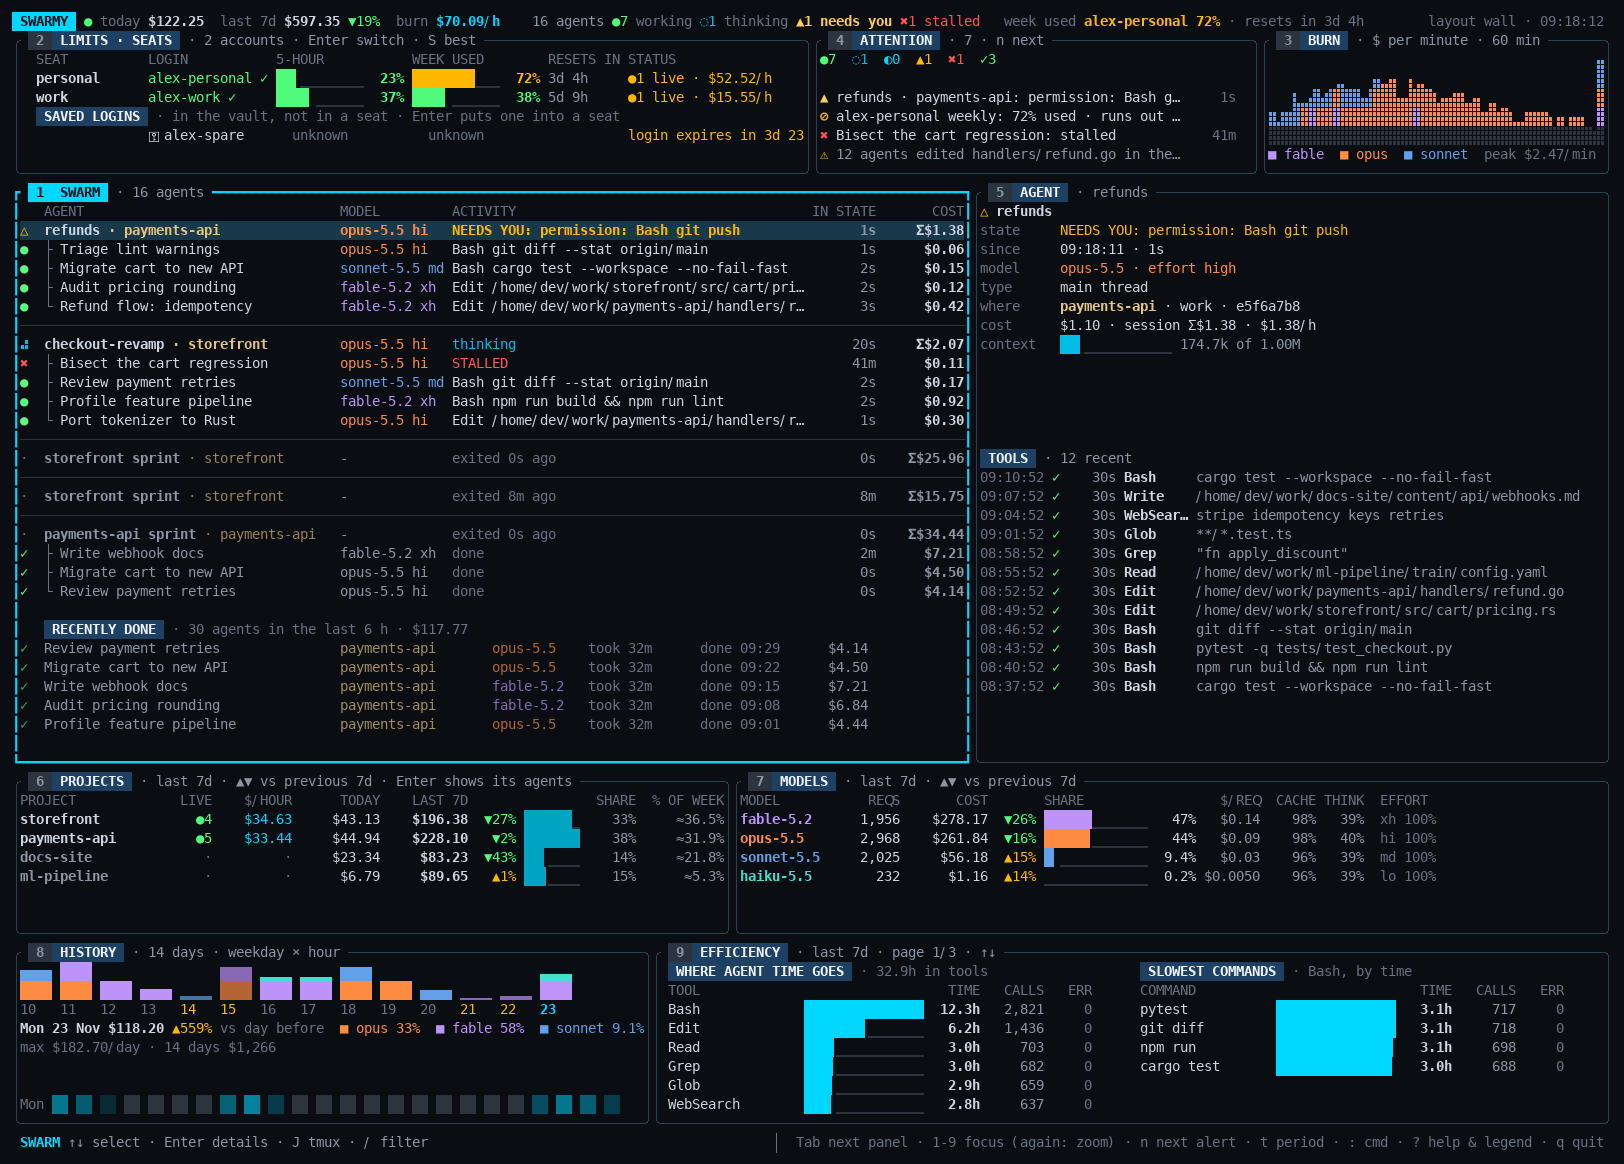
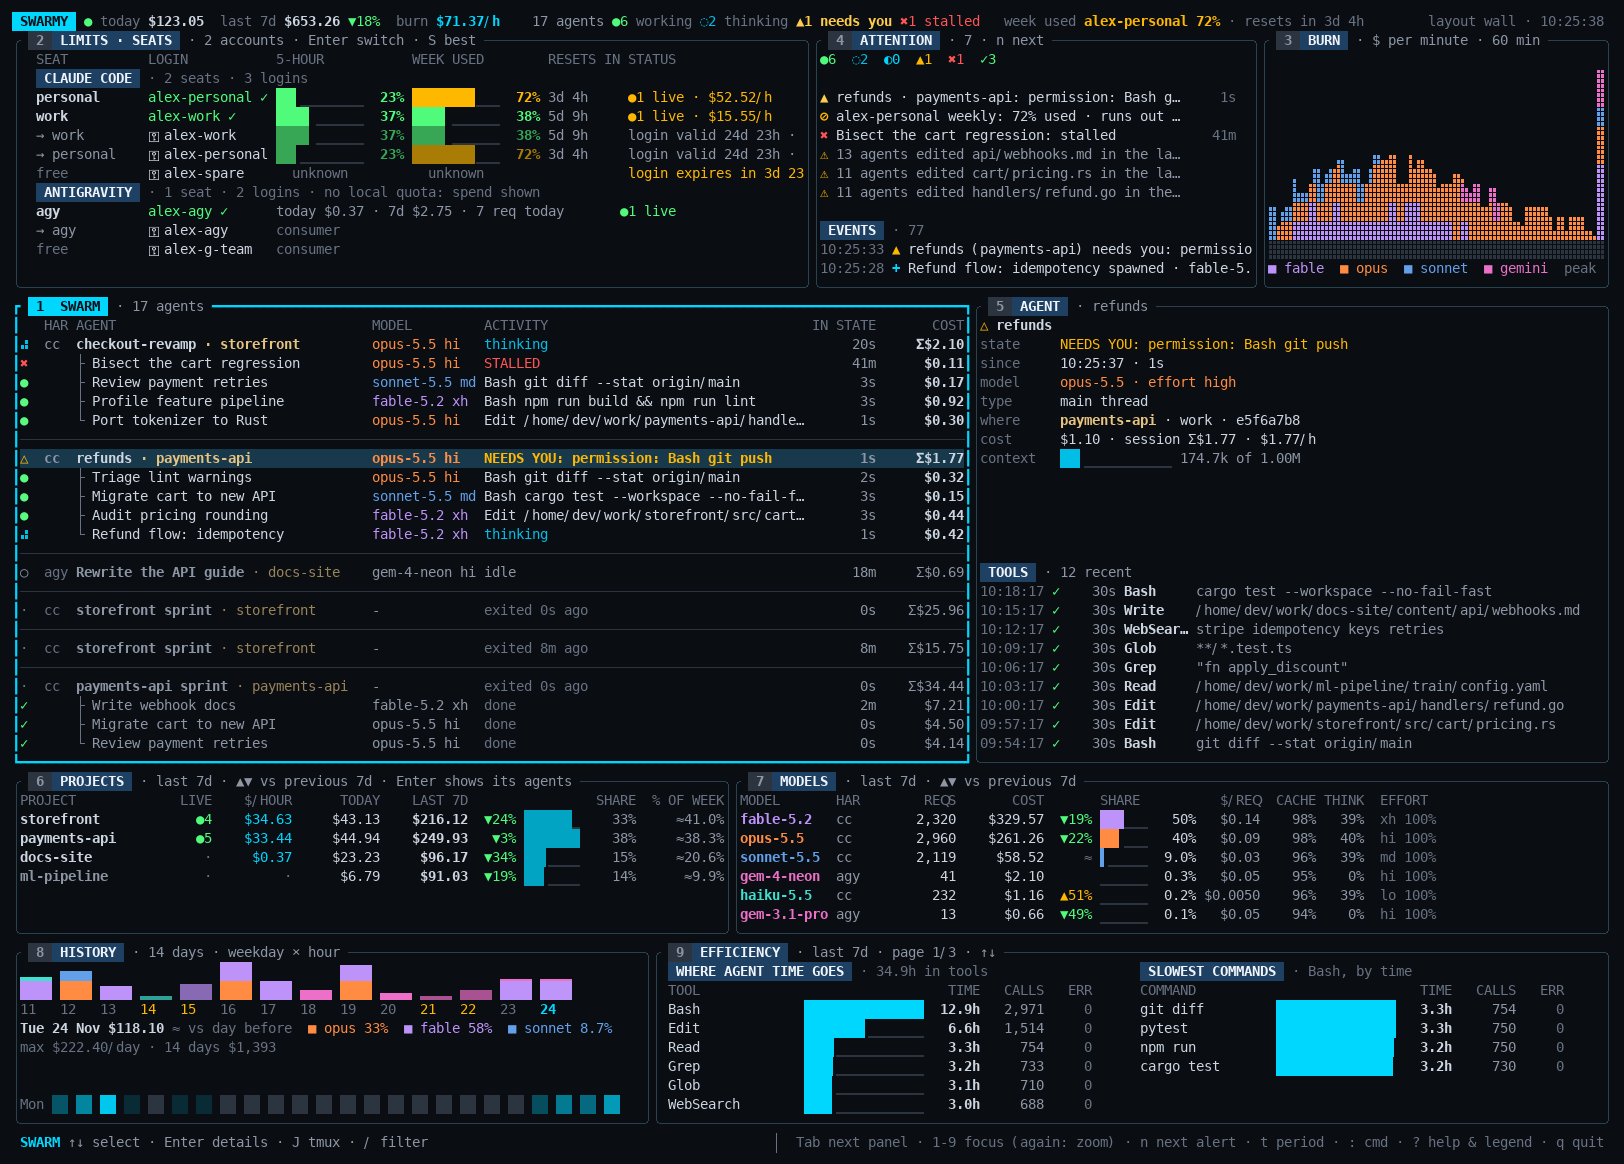
Demo and README: an Antigravity seat, a login shared by two seats
`swarmy demo` gets an agy seat: a Google login, two weeks of Gemini conversations (the JSON
metadata agy keeps beside its database) and one running conversation whose presence lock the
demo writer holds; a second Google login is saved. On the wall, seat `lab` shares `alex-work`.
`tools/perf.sh` measures this world: 1.87 CPU-s/min (budget 2.0), 1.99 with --mask (2.3), on a
heavily loaded machine.

README media regenerated with `tools/record-readme.sh`; the README names Antigravity.

diff --git a/src/demo.rs b/src/demo.rs
@@ -239,13 +239,16 @@ pub fn start(root: &Path, load: Load) -> anyhow::Result<Demo> {
             ..Seat::new(s.label, dir.clone(), dir.join(".claude.json"), false)
         });
     }
+    let seat_dirs: Vec<PathBuf> = seats.iter().map(|s| s.dir.clone()).collect();
+    let agy = agy_seat(root, now)?;
+    let agy_dir = agy.dir.clone();
+    seats.push(agy);
     let stop = Arc::new(AtomicBool::new(false));
     let st = stop.clone();
-    let seat_dirs: Vec<PathBuf> = seats.iter().map(|s| s.dir.clone()).collect();
     // Named, so `tools/perf.sh` can leave the writer out of the dashboard's CPU time.
     std::thread::Builder::new()
         .name("demo-writer".into())
-        .spawn(move || live(seat_dirs, st, load))?;
+        .spawn(move || live(seat_dirs, agy_dir, st, load))?;
     Ok(Demo {
         root: root.to_path_buf(),
         seats,
@@ -424,8 +427,18 @@ fn wall_history(dir: &Path, s: &SeatDef, si: u64, now: DateTime<Utc>) {
 }
 
 /// Keeps the demo agents working until stopped.
-fn live(seat_dirs: Vec<PathBuf>, stop: Arc<AtomicBool>, load: Load) {
+fn live(seat_dirs: Vec<PathBuf>, agy_dir: PathBuf, stop: Arc<AtomicBool>, load: Load) {
     let wall = load == Load::Wall;
+    // The running agy conversation: its presence lock held as long as the demo runs.
+    let _agy_presence = std::fs::OpenOptions::new()
+        .read(true)
+        .write(true)
+        .create(true)
+        .truncate(false)
+        .open(agy_dir.join("presence").join(format!("{AGY_LIVE}.lock")))
+        .and_then(|f| f.lock().map(|()| f));
+    let agy_live = agy_transcript(&agy_dir, AGY_LIVE);
+    let mut agy_step: u64 = 100;
     let pid = std::process::id();
     let start = proc_start_ticks(pid);
     let now = Utc::now();
@@ -571,6 +584,12 @@ fn live(seat_dirs: Vec<PathBuf>, stop: Arc<AtomicBool>, load: Load) {
                 append(&p, &[v, tool_result(now, &tid)]);
             }
         }
+        // The agy conversation takes a step now and then.
+        if tick.is_multiple_of(4) {
+            let (p, g) = agy_planner(3_000_000 + tick, agy_step, now, "gemini-4-neon-high", tick);
+            append(&agy_live, &[p, g]);
+            agy_step += 2;
+        }
         // Finished agents.
         agents.retain(|a| {
             if a.steps_left == 0 && a.open_tool.is_none() {
@@ -600,6 +619,128 @@ fn live(seat_dirs: Vec<PathBuf>, stop: Arc<AtomicBool>, load: Load) {
         tick += 1;
         std::thread::sleep(std::time::Duration::from_millis(700));
     }
+}
+
+/// The demo's running Antigravity conversation.
+const AGY_LIVE: &str = "7f3e2a10-demo-agy-api-guide";
+
+/// What agy's demo steps call (tool, argument, value).
+const AGY_TOOLS: &[(&str, &str, &str)] = &[
+    (
+        "view_file",
+        "AbsolutePath",
+        "/home/dev/work/docs-site/guide/api.md",
+    ),
+    ("grep_search", "Query", "rate limit"),
+    (
+        "replace_file_content",
+        "TargetFile",
+        "/home/dev/work/docs-site/guide/api.md",
+    ),
+    ("run_command", "CommandLine", "npm run build:docs"),
+];
+
+fn agy_transcript(seat_dir: &Path, cid: &str) -> PathBuf {
+    seat_dir
+        .join("brain")
+        .join(cid)
+        .join(".system_generated")
+        .join("logs")
+        .join("transcript.jsonl")
+}
+
+/// One agy model step with a tool call, and the tool's result right after it.
+fn agy_planner(
+    seed: u64,
+    step: u64,
+    t: DateTime<Utc>,
+    model: &str,
+    tool: u64,
+) -> (serde_json::Value, serde_json::Value) {
+    let (name, key, val) = AGY_TOOLS[(tool as usize) % AGY_TOOLS.len()];
+    let done = t + Duration::seconds(2 + (seed % 5) as i64);
+    (
+        json!({"step_index": step, "source": "MODEL", "type": "PLANNER_RESPONSE", "status": "DONE",
+               "created_at": ts(t), "model": model, "input_tokens": 2_000 + rnd(seed, 1) % 9_000,
+               "cache_read_tokens": 40_000 + rnd(seed, 2) % 160_000,
+               "output_tokens": 150 + rnd(seed, 3) % 1_400, "content": "", "thinking": "…",
+               "tool_calls": [{"name": name, "args": {key: val}}]}),
+        json!({"step_index": step + 1, "source": "MODEL", "type": "GENERIC", "status": "DONE",
+               "created_at": ts(done), "content": format!("Completed At: {}\nok", ts(done))}),
+    )
+}
+
+/// The demo's Antigravity seat: a Google login, two weeks of Gemini conversations (the JSON
+/// metadata agy keeps next to its database), and the one that is running.
+fn agy_seat(root: &Path, now: DateTime<Utc>) -> anyhow::Result<Seat> {
+    let dir = root.join(".gemini-agy");
+    for d in ["brain", "presence", "cache"] {
+        std::fs::create_dir_all(dir.join(d))?;
+    }
+    std::fs::write(
+        dir.join("antigravity-oauth-token"),
+        json!({"token": {"access_token": "demo-agy-access", "token_type": "Bearer",
+                         "refresh_token": "demo-agy-refresh", "expiry": ts(now + Duration::hours(1)),
+                         "expires_in": 3599},
+               "auth_method": "consumer", "id_token_email": "alex.demo@example.com"})
+        .to_string(),
+    )?;
+    let mut convs = serde_json::Map::new();
+    let titles = [
+        "Rewrite the API guide",
+        "Fix broken doc links",
+        "Summarize refund flow",
+        "Tidy pipeline configs",
+        "Add search to docs",
+    ];
+    for k in 0..10u64 {
+        let (cid, project, title) = if k == 0 {
+            (AGY_LIVE.to_string(), "docs-site", titles[0])
+        } else {
+            (
+                format!("{:08x}-demo-agy-{k}", 0x5eed_0000 + k),
+                PROJECTS[(k as usize) % PROJECTS.len()],
+                titles[(k as usize) % titles.len()],
+            )
+        };
+        let start = if k == 0 {
+            now - Duration::minutes(25)
+        } else {
+            now - Duration::days(k as i64) - Duration::hours((k * 5 % 9) as i64)
+        };
+        // Older conversations ran Gemini 3.1 Pro; the last few days Gemini 4 Neon.
+        let model = if k < 5 {
+            "gemini-4-neon-high"
+        } else {
+            "gemini-3.1-pro-preview-high"
+        };
+        let mut lines = vec![
+            json!({"step_index": 0, "source": "USER_EXPLICIT", "type": "USER_INPUT",
+            "status": "DONE", "created_at": ts(start), "content": format!("<USER_REQUEST>\n{title}\n</USER_REQUEST>")}),
+        ];
+        let mut t = start;
+        for i in 0..(6 + k % 5) {
+            t += Duration::seconds(40 + (rnd(k, i) % 80) as i64);
+            let (p, g) = agy_planner(7_000_000 + k * 100 + i, 1 + 2 * i, t, model, k + i);
+            lines.extend([p, g]);
+        }
+        append(&agy_transcript(&dir, &cid), &lines);
+        convs.insert(
+            cid.clone(),
+            json!({"summary": {"ID": cid, "Title": title,
+                               "WorkspaceURIs": [format!("file://{}", cwd(project))],
+                               "UpdatedAt": ts(t)}}),
+        );
+    }
+    std::fs::write(
+        dir.join("cache").join("conversation_metadata.json"),
+        json!({"conversations": convs}).to_string(),
+    )?;
+    std::fs::write(dir.join("presence").join(format!("{AGY_LIVE}.lock")), "")?;
+    Ok(Seat {
+        found_by: vec!["demo"],
+        ..Seat::agy("agy", dir)
+    })
 }
 
 fn write_registry(

diff --git a/src/cli/mod.rs b/src/cli/mod.rs
@@ -241,6 +241,19 @@ pub fn run(cli: Cli) -> anyhow::Result<()> {
                     ..Default::default()
                 };
                 v.edit(|tx| tx.put(&spare, Some(serde_json::json!({"accountUuid": "acc-demo-spare", "emailAddress": "alex+spare@example.com"})), Some(&acct), Some("alex-spare"), None))?;
+                // A second Google login for the agy seat.
+                let team = crate::claude::credentials::Secret::of(
+                    crate::core::harness::Harness::Agy,
+                    serde_json::json!({"token": {"access_token": "demo-agy-access-team", "refresh_token": "demo-agy-refresh-team",
+                                                 "expiry": (chrono::Utc::now() + chrono::Duration::hours(1)).to_rfc3339()},
+                                       "auth_method": "consumer", "id_token_email": "alex.team@example.com"}),
+                );
+                let team_acct = crate::agy::account::account_of(team.expose());
+                v.edit(|tx| tx.put(&team, None, team_acct.as_ref(), Some("alex-g-team"), None))?;
+                // On the wall, one login serves two seats.
+                if wall && let Some(lab) = ctx.seats.iter().find(|s| s.label == "lab") {
+                    v.edit(|tx| tx.switch(lab, "alex-work"))?;
+                }
             }
             // Account names come from the saved logins just made.
             ctx.check_unconfirmed();

diff --git a/src/app/context.rs b/src/app/context.rs
@@ -308,6 +308,11 @@ impl Ctx {
         let mut seat_info = Vec::new();
         let mut caches = Vec::new();
         for s in &seats {
+            if s.harness != Harness::Claude {
+                let mut problems = Vec::new();
+                seat_info.push(seat_info_of(s, &dirs.data, &mut problems).0);
+                continue;
+            }
             let cj = config_json::read_seat_file(&s.claude_json)?;
             if let Some(costs) = cj.model_costs {
                 caches.push((s.id.clone(), costs));

diff --git a/README.md b/README.md
@@ -1,6 +1,6 @@
 # swarmy
 
-**Mission control for Claude Code agents, in your terminal.**
+**Mission control for Claude Code (and Antigravity) agents, in your terminal.**
 
 [![CI](https://github.com/koorchik/swarmy/actions/workflows/ci.yml/badge.svg?branch=main)](https://github.com/koorchik/swarmy/actions/workflows/ci.yml)
 [![Release](https://img.shields.io/github/v/release/koorchik/swarmy?sort=semver)](https://github.com/koorchik/swarmy/releases/latest)
@@ -29,10 +29,14 @@ your weekly limit went and when it runs out.
   moved between config dirs are followed.
 - **Spend at API prices.** By project, account, model, effort, agent type, session, agent and day,
   with trends against the previous period, the model mix, cache hits and thinking.
+- **Google Antigravity too.** `agy` seats, conversations and subagents sit in the same tree,
+  panels and reports as Claude Code's, Gemini models priced at Google's list prices; `--harness`
+  and `--by harness` tell them apart.
 - **A status line inside Claude Code.** Who needs you in your other sessions, this session's
   agents, the exact week used and when it runs out.
 - **A vault for several accounts.** Save each config dir's login, put another account's login in
-  when a limit runs out, and switch back. A switch never loses a token.
+  when a limit runs out, and switch back; one login can serve several seats, and agy's Google
+  logins switch the same way. A switch never loses a token.
 - **Offline, read-only, light.** No network, no telemetry. It reads what Claude Code already
   writes. About 2 CPU-seconds a minute with 20 live agents on a 4K terminal. One static binary
   with SQLite built in.
